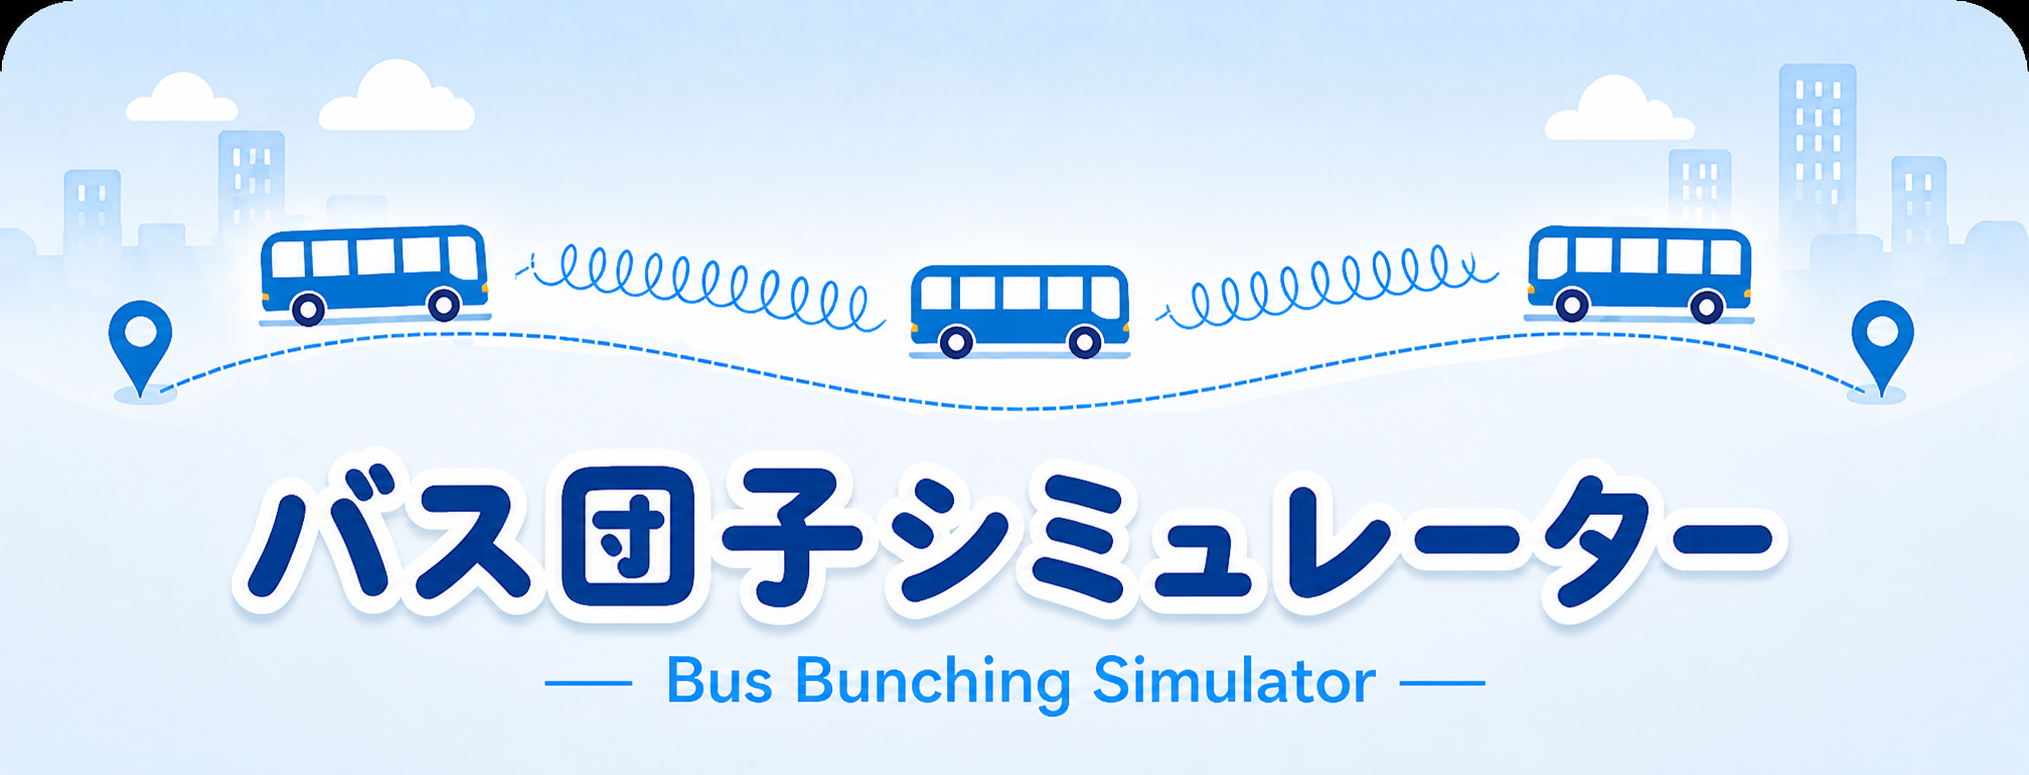
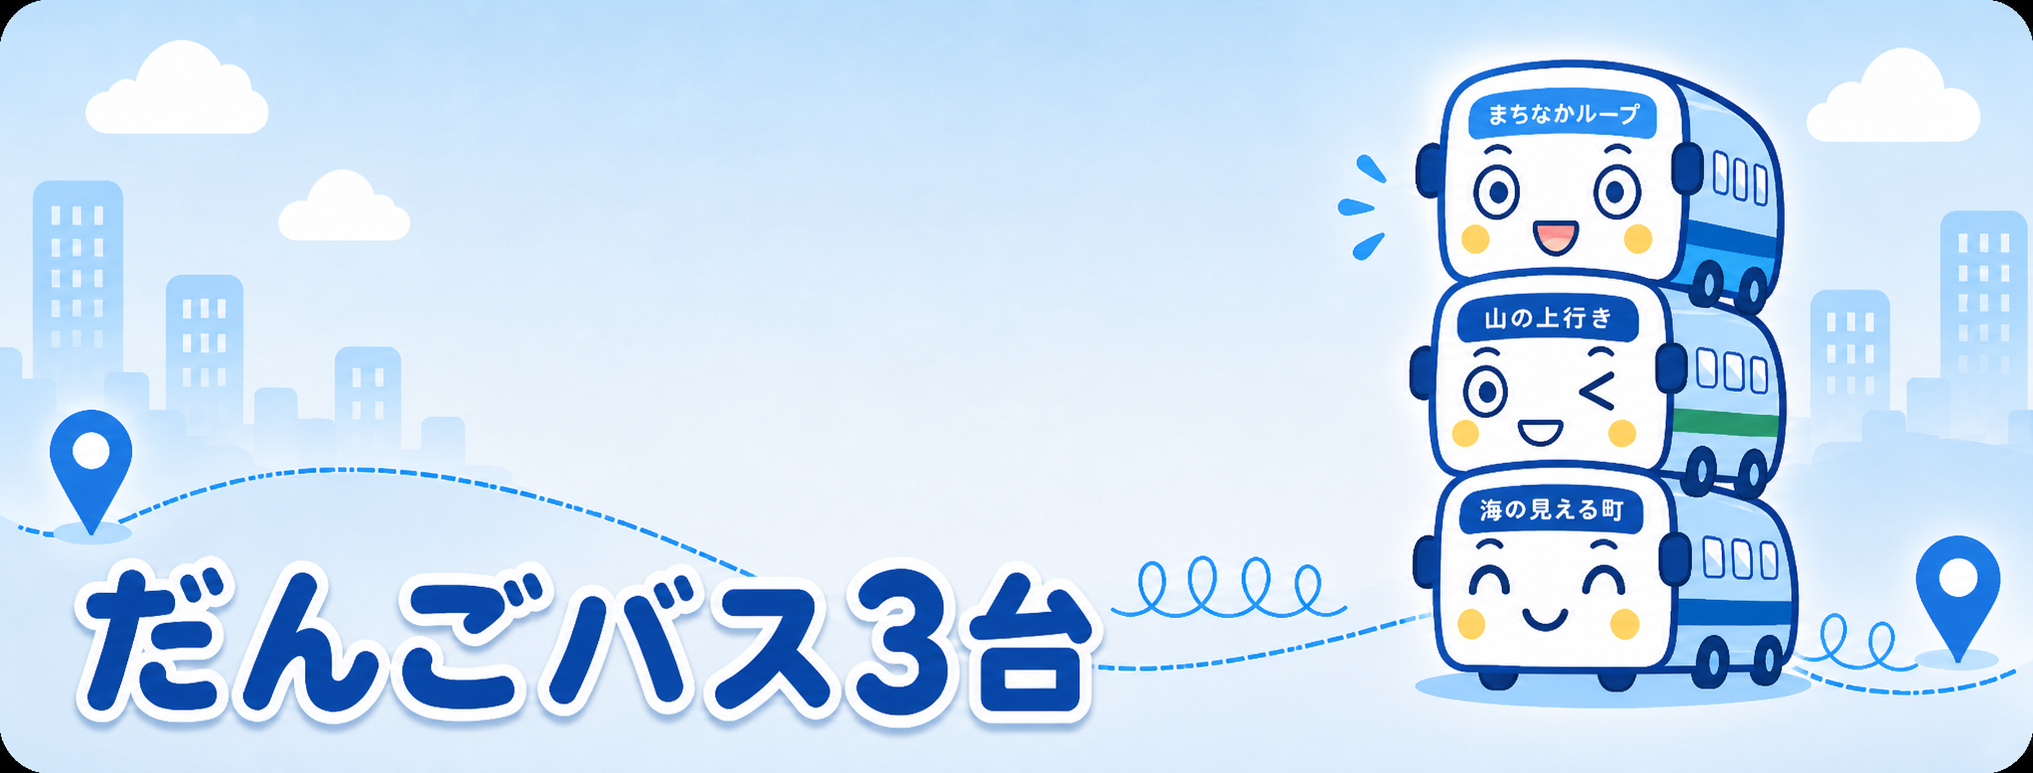
Rename app to だんごバス3台

diff --git a/mobile/lib/main.dart b/mobile/lib/main.dart
@@ -22,7 +22,7 @@ class BusBunchingApp extends StatelessWidget {
   Widget build(BuildContext context) {
     const seed = Color(0xff244a66);
     return MaterialApp(
-      title: 'バス団子シミュレーター',
+      title: 'だんごバス3台',
       debugShowCheckedModeBanner: false,
       locale: const Locale('ja', 'JP'),
       supportedLocales: const [Locale('ja', 'JP')],
@@ -78,7 +78,7 @@ class _SimulatorHeader extends StatelessWidget implements PreferredSizeWidget {
       surfaceTintColor: Colors.transparent,
       shadowColor: Colors.transparent,
       flexibleSpace: Semantics(
-        label: 'バス団子シミュレーター',
+        label: 'だんごバス3台',
         image: true,
         child: Image.asset('assets/images/header.png', fit: BoxFit.fill),
       ),

diff --git a/mobile/test/widget_test.dart b/mobile/test/widget_test.dart
@@ -13,7 +13,7 @@ void main() {
     await tester.pumpWidget(const BusBunchingApp());
     final appContext = tester.element(find.byType(SimulatorHome));
     expect(Localizations.localeOf(appContext), const Locale('ja', 'JP'));
-    expect(find.bySemanticsLabel('バス団子シミュレーター'), findsOneWidget);
+    expect(find.bySemanticsLabel('だんごバス3台'), findsOneWidget);
     expect(find.byType(Image), findsOneWidget);
     expect(tester.getSize(find.byType(AppBar)).height, kToolbarHeight);
     expect(find.text('分析'), findsWidgets);

diff --git a/mobile/README.md b/mobile/README.md
@@ -1,4 +1,4 @@
-# バス団子シミュレーター mobile
+# だんごバス3台 mobile
 
 Android 優先の Flutter 版です。`spring/index.html` の主要機能をスマホ向けに再構成しています。
 
